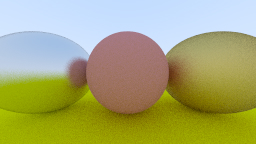
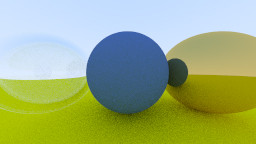
Dielectrics

diff --git a/RayTraceDemo/material.h b/RayTraceDemo/material.h
@@ -46,4 +46,41 @@ public:
 	color albedo;
 	double fuzz;
 };
+
+class dielectric : public material {
+public:
+	dielectric(double index_of_refraction) : ir(index_of_refraction) {}
+
+	virtual bool scatter(const ray& r_in, const hit_record& rec, color& attenuation, ray& scattered) const override
+	{
+		attenuation = color(1.0, 1.0, 1.0);
+		double refraction_ratio = rec.front_face ? (1.0 / ir) : ir;
+		vec3 unit_direction = unit_vector(r_in.direction());
+		double cos_theta = fmin(dot(-unit_direction, rec.normal), 1.0);
+		double sin_theta = sqrt(1.0 - cos_theta * cos_theta);
+		bool cannot_refract = refraction_ratio * sin_theta > 1.0;
+		vec3 direction;
+		if (cannot_refract || reflectance(cos_theta, refraction_ratio) > random_double())
+		{
+			direction = reflect(unit_direction, rec.normal);
+		}
+		else
+		{
+			direction = refract(unit_direction, rec.normal, refraction_ratio);
+		}
+
+		scattered = ray(rec.p, direction);
+		return true;
+	}
+
+public:
+	double ir;
+private:
+	static double reflectance(double cos, double ref_idx)
+	{
+		auto r0 = (1 - ref_idx) / (1 + ref_idx);
+		r0 = r0 * r0;
+		return r0 + (1 - r0) * pow((1 - cos), 5);
+	}
+};
 #endif

diff --git a/RayTraceDemo/main.cpp b/RayTraceDemo/main.cpp
@@ -73,12 +73,13 @@ int main()
 	struct RGB data[image_height][image_width];
 	hittable_list world;
 	auto material_ground = make_shared<lambertian>(color(0.8, 0.8, 0.0));
-	auto material_center = make_shared<lambertian>(color(0.7, 0.3, 0.3));
-	auto material_left = make_shared<metal>(color(0.8, 0.8, 0.8), 0.3);
-	auto material_right = make_shared<metal>(color(0.8, 0.6, 0.2), 1.0);
+	auto material_center = make_shared<lambertian>(color(0.1, 0.2, 0.5));
+	auto material_left = make_shared<dielectric>(1.5);
+	auto material_right = make_shared<metal>(color(0.8, 0.6, 0.2), 0.0);
 	world.add(make_shared<sphere>(point3(0.0, -100.5, -1.0), 100.0, material_ground));
 	world.add(make_shared<sphere>(point3(0.0, 0.0, -1.0), 0.5, material_center));
 	world.add(make_shared<sphere>(point3(-1.0, 0.0, -1.0), 0.5, material_left));
+	world.add(make_shared<sphere>(point3(-1.0, 0.0, -1.0), -0.4, material_left));
 	world.add(make_shared<sphere>(point3(1.0, 0.0, -1.0), 0.5, material_right));
 	camera cam;
 	auto viewport_height = 2.0;

diff --git a/RayTraceDemo/vec3.h b/RayTraceDemo/vec3.h
@@ -156,4 +156,12 @@ vec3 reflect(const vec3& v, const vec3& n)
 {
 	return v - 2 * dot(v, n) * n;
 }
+
+vec3 refract(const vec3& uv, const vec3& n, double etai_over_etat)
+{
+	auto cos_theta = fmin(dot(-uv, n), 1.0);
+	vec3 r_out_perp = etai_over_etat * (uv + cos_theta * n);
+	vec3 r_out_parallel = -sqrt(fabs(1.0 - r_out_perp.length_squared())) * n;
+	return r_out_perp + r_out_parallel;
+}
 #endif
